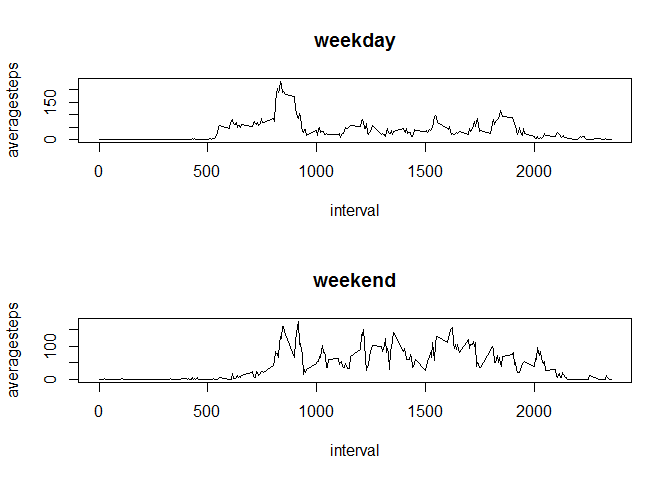
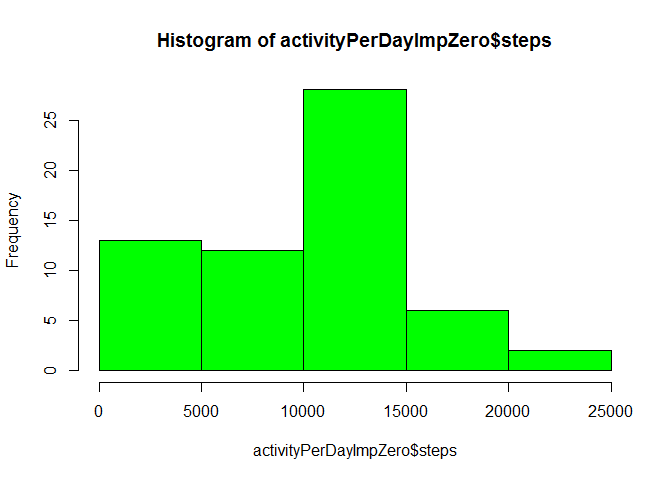
Added conclusions

diff --git a/PA1_template.html b/PA1_template.html
@@ -123,23 +123,51 @@ with(activityPerInterval, plot(interval, averagesteps, type = &quot;l&quot;))</c
 <pre class="r"><code>sum(is.na(activity))</code></pre>
 <pre><code>## [1] 2304</code></pre>
 <ol start="2" style="list-style-type: decimal">
-<li><p>Devise a strategy for filling in all of the missing values in the dataset. The strategy does not need to be sophisticated. For example, you could use the mean/median for that day, or the mean for that 5-minute interval, etc.</p></li>
-<li><p>Create a new dataset that is equal to the original dataset but with the missing data filled in.</p></li>
+<li>Devise a strategy for filling in all of the missing values in the dataset. The strategy does not need to be sophisticated. For example, you could use the mean/median for that day, or the mean for that 5-minute interval, etc.</li>
 </ol>
-<pre class="r"><code>tidyData3 &lt;- within(merge(activity, activityPerInterval), {
+<ul>
+<li><p>First strategy is to fill NAs with mean of all values from tha same interval</p></li>
+<li><p>Second strategy is to fill NAs with zero</p></li>
+</ul>
+<ol start="3" style="list-style-type: decimal">
+<li>Create a new dataset that is equal to the original dataset but with the missing data filled in.</li>
+</ol>
+<pre class="r"><code>tidyDataWithMean &lt;- within(merge(activity, activityPerInterval), {
     steps = ifelse(is.na(steps), averagesteps, steps)
 })
-tidyData3 &lt;- tidyData3[, 1:3]</code></pre>
+tidyDataWithMean &lt;- tidyDataWithMean[, 1:3]
+
+tidyDataWithZero &lt;- within(activity, {
+    steps = ifelse(is.na(steps), 0, steps)
+})</code></pre>
 <ol start="4" style="list-style-type: decimal">
 <li>Make a histogram of the total number of steps taken each day and Calculate and report the mean and median total number of steps taken per day. Do these values differ from the estimates from the first part of the assignment? What is the impact of imputing missing data on the estimates of the total daily number of steps?</li>
 </ol>
-<pre class="r"><code>activityPerDay2 &lt;- ddply(tidyData3, .(date), summarize, steps=sum(steps))
-hist(activityPerDay2$steps, breaks = &quot;FD&quot;, col = &quot;red&quot;)</code></pre>
[1 lines of base64/hex data omitted]
-<pre class="r"><code>mean(activityPerDay2$steps, na.rm = TRUE)</code></pre>
+<ul>
+<li>Imputing with mean of all values from tha same interval</li>
+</ul>
+<pre class="r"><code>activityPerDayImpMean &lt;- ddply(tidyDataWithMean, .(date), summarize, steps=sum(steps))
+hist(activityPerDayImpMean$steps, breaks = &quot;FD&quot;, col = &quot;red&quot;)</code></pre>
[1 lines of base64/hex data omitted]
+<pre class="r"><code>mean(activityPerDayImpMean$steps, na.rm = TRUE)</code></pre>
 <pre><code>## [1] 10765.64</code></pre>
-<pre class="r"><code>median(activityPerDay2$steps, na.rm = TRUE)</code></pre>
+<pre class="r"><code>median(activityPerDayImpMean$steps, na.rm = TRUE)</code></pre>
 <pre><code>## [1] 10762</code></pre>
+<ul>
+<li>Imputing with zero</li>
+</ul>
+<pre class="r"><code>activityPerDayImpZero &lt;- ddply(tidyDataWithZero, .(date), summarize, steps=sum(steps))
+hist(activityPerDayImpZero$steps, breaks = &quot;FD&quot;, col = &quot;green&quot;)</code></pre>
[1 lines of base64/hex data omitted]
+<pre class="r"><code>mean(activityPerDayImpZero$steps, na.rm = TRUE)</code></pre>
+<pre><code>## [1] 9354.23</code></pre>
+<pre class="r"><code>median(activityPerDayImpZero$steps, na.rm = TRUE)</code></pre>
+<pre><code>## [1] 10395</code></pre>
+<p>The impact of imputing missing data depends on strategy:</p>
+<ol style="list-style-type: decimal">
+<li><p>In case of using <strong>mean</strong> instead of NAs the result is <strong>very close</strong> to source data</p></li>
+<li><p>In case of using <strong>zero</strong> instead of NAs the result is <strong>absolutely different</strong></p></li>
+</ol>
 </div>
 <div id="are-there-differences-in-activity-patterns-between-weekdays-and-weekends" class="section level2">
 <h2>Are there differences in activity patterns between weekdays and weekends?</h2>
@@ -157,6 +185,11 @@ weekendData &lt;- activity[activity$daytype == &quot;weekend&quot;, ]
 weekendDataPerInterval &lt;- ddply(weekendData, .(interval), summarize, averagesteps=round(mean(steps, na.rm = TRUE)))
 with(weekendDataPerInterval, plot(interval, averagesteps, type = &quot;l&quot;, main = &quot;weekend&quot;))</code></pre>
[1 lines of base64/hex data omitted]
+<p>Yes, there is a difference:</p>
+<ul>
+<li><p>during weekdays anonymous moves a lot in the morning</p></li>
+<li><p>during weekends anonymous moves evenly throughout the days</p></li>
+</ul>
 </div>
 
 

diff --git a/PA1_template.md b/PA1_template.md
@@ -103,30 +103,39 @@ sum(is.na(activity))
 
 2. Devise a strategy for filling in all of the missing values in the dataset. The strategy does not need to be sophisticated. For example, you could use the mean/median for that day, or the mean for that 5-minute interval, etc.
 
+* First strategy is to fill NAs with mean of all values from tha same interval
+
+* Second strategy is to fill NAs with zero
 
 3. Create a new dataset that is equal to the original dataset but with the missing data filled in.
 
 
+
 ```r
-tidyData3 <- within(merge(activity, activityPerInterval), {
+tidyDataWithMean <- within(merge(activity, activityPerInterval), {
     steps = ifelse(is.na(steps), averagesteps, steps)
 })
-tidyData3 <- tidyData3[, 1:3]
+tidyDataWithMean <- tidyDataWithMean[, 1:3]
+
+tidyDataWithZero <- within(activity, {
+    steps = ifelse(is.na(steps), 0, steps)
+})
 ```
 
 4. Make a histogram of the total number of steps taken each day and Calculate and report the mean and median total number of steps taken per day. Do these values differ from the estimates from the first part of the assignment? What is the impact of imputing missing data on the estimates of the total daily number of steps?
 
+* Imputing with mean of all values from tha same interval
+
 
 ```r
-activityPerDay2 <- ddply(tidyData3, .(date), summarize, steps=sum(steps))
-hist(activityPerDay2$steps, breaks = "FD", col = "red")
+activityPerDayImpMean <- ddply(tidyDataWithMean, .(date), summarize, steps=sum(steps))
+hist(activityPerDayImpMean$steps, breaks = "FD", col = "red")
 ```
 
-![](PA1_template_files/figure-html/unnamed-chunk-9-1.png) 
-
+![](PA1_template_files/figure-html/unnamed-chunk-8-1.png) 
 
 ```r
-mean(activityPerDay2$steps, na.rm = TRUE)
+mean(activityPerDayImpMean$steps, na.rm = TRUE)
 ```
 
 ```
@@ -134,12 +143,44 @@ mean(activityPerDay2$steps, na.rm = TRUE)
 ```
 
 ```r
-median(activityPerDay2$steps, na.rm = TRUE)
+median(activityPerDayImpMean$steps, na.rm = TRUE)
 ```
 
 ```
 ## [1] 10762
 ```
+
+* Imputing with zero
+
+
+```r
+activityPerDayImpZero <- ddply(tidyDataWithZero, .(date), summarize, steps=sum(steps))
+hist(activityPerDayImpZero$steps, breaks = "FD", col = "green")
+```
+
+![](PA1_template_files/figure-html/unnamed-chunk-10-1.png) 
+
+```r
+mean(activityPerDayImpZero$steps, na.rm = TRUE)
+```
+
+```
+## [1] 9354.23
+```
+
+```r
+median(activityPerDayImpZero$steps, na.rm = TRUE)
+```
+
+```
+## [1] 10395
+```
+
+The impact of imputing missing data depends on strategy:
+
+1. In case of using **mean** instead of NAs the result is **very close** to source data
+
+2. In case of using **zero** instead of NAs the result is **absolutely different**
 
 ## Are there differences in activity patterns between weekdays and weekends?
 
@@ -160,4 +201,10 @@ weekendDataPerInterval <- ddply(weekendData, .(interval), summarize, averagestep
 with(weekendDataPerInterval, plot(interval, averagesteps, type = "l", main = "weekend"))
 ```
 
-![](PA1_template_files/figure-html/unnamed-chunk-11-1.png) 
+![](PA1_template_files/figure-html/unnamed-chunk-12-1.png) 
+
+Yes, there is a difference:
+
+* during weekdays anonymous moves a lot in the morning
+
+* during weekends anonymous moves evenly throughout the days 
